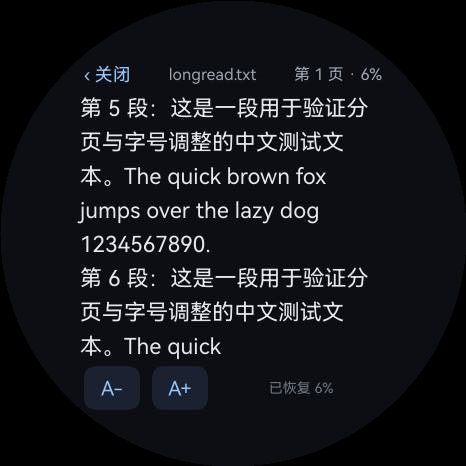
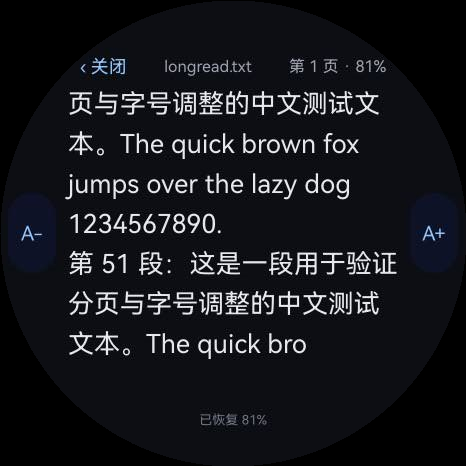
feat(reader): move font buttons out of the inscribed square; tame the crown
- A-/A+ are now vertical pills on the circle's edge band at mid-height, where
  the panel is full width, so they no longer eat page space. The body uses the
  whole inscribed square: budget 165x150 vp instead of 186x126, about a quarter
  more text per page.
- crown: the watch reports only 0..1 degrees per event, so 4 degrees flew
  several pages per notch and 10 looked dead. Now 12 degrees plus a 220 ms lock
  after each turn, which makes one notch one page.
- focus is requested explicitly via getFocusController().requestFocus after
  layout; defaultFocus alone lost against the page underneath the overlay.

diff --git a/docs/development-roadmap.md b/docs/development-roadmap.md
@@ -15,7 +15,7 @@ State after this round. Status words are the ones the brief asked for: PASS / FA
 | 6 | audio player | NOT STARTED | `AVPlayer` + `fdSrc`; nine formats verified by the earlier probe |
 | 7 | H.264 video player | NOT STARTED | XComponent surface, `surfaceId` only after `initialized` |
 | 8 | media metadata + playability | NOT STARTED | `AVMetadataExtractor`; capability cache keyed by path+size+mtime |
-| 9 | TXT reader | PARTIAL | chunked read, BOM/GBK detection, calibrated paginator, font size 9-20 vp, crown (needs focus) + swipe + tap paging, keep-screen-on, progress persisted, text cache; no EPUB/PDF, resumed page counts from the resume offset |
+| 9 | TXT reader | PARTIAL | chunked read, BOM/GBK detection, paginator on the full inscribed square, font 9-20 vp via edge buttons, crown (focus + 12 deg + 220 ms debounce) + swipe + tap paging, progress persisted, text cache; no EPUB/PDF |
 | 10 | regression + performance pass | NOT STARTED | - |
 
 ## FFmpeg probe
@@ -60,6 +60,7 @@ What the emulator cannot answer: real performance, real power/thermal behaviour,
 - Temp upload files are not swept at startup.
 - The FTP suite and HTTP suite are PowerShell scripts; a single runner that also captures device logs would make regressions one command.
 - No unit tests: the only tests are end-to-end against hardware, which is why every regression needs the watch awake.
+
 
 
 
